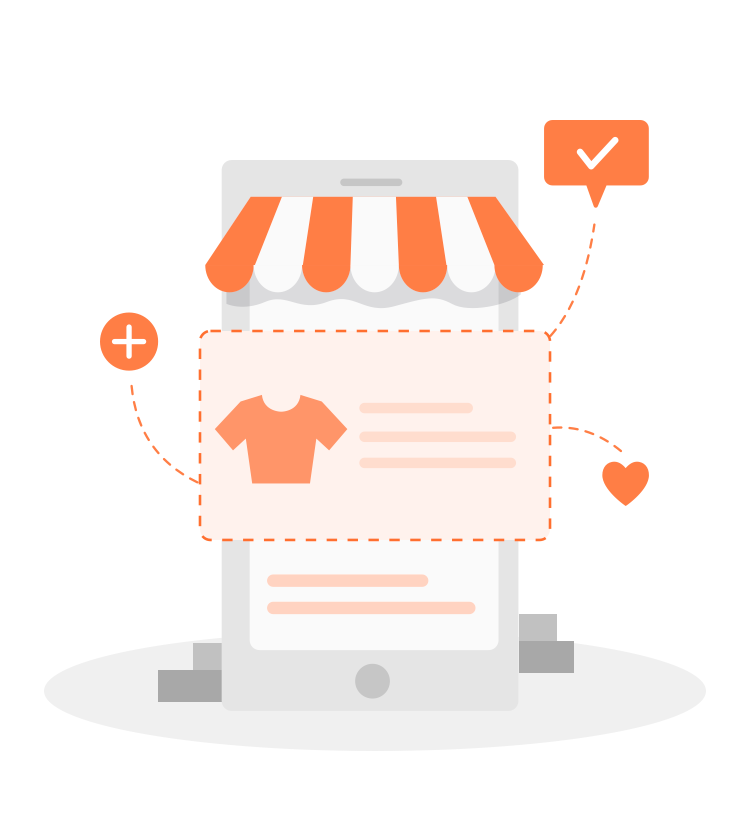
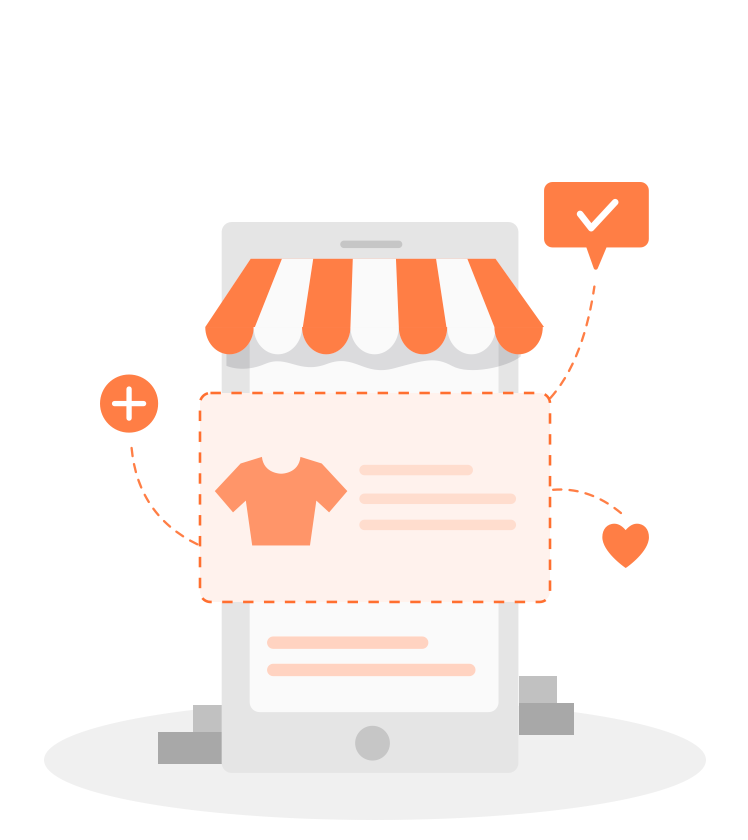
feat:替换引导图

diff --git a/lib/screen/module_main/guide.dart b/lib/screen/module_main/guide.dart
@@ -60,16 +60,17 @@ class _GuideScreenState extends State<GuideScreen> {
               alignment: Alignment.topCenter,
               margin: EdgeInsets.only(top: 430),
               builder: RoundRectSwiperPaginationBuilder(
-                  //点之间的间隔
-                  space: 5,
-                  // 没选中时的大小
-                  size: Size(30, 4),
-                  // 选中时的大小
-                  activeSize: Size(30, 4),
-                  // 没选中时的颜色
-                  color: Colors.white30,
-                  //选中时的颜色
-                  activeColor: Colors.white),
+                //点之间的间隔
+                space: 5,
+                // 没选中时的大小
+                size: Size(30, 4),
+                // 选中时的大小
+                activeSize: Size(30, 4),
+                // 没选中时的颜色
+                color: Colors.white30,
+                //选中时的颜色
+                activeColor: Colors.white,
+              ),
             ),
           ),
         ),
@@ -79,64 +80,63 @@ class _GuideScreenState extends State<GuideScreen> {
 
   Widget _createSwiperItem(
       int index, BuildContext context, SwiperController controllrer) {
-    return Container(
-      child: Column(
-        crossAxisAlignment: CrossAxisAlignment.center,
-        // mainAxisAlignment: MainAxisAlignment.center,
-        children: [
-          Image(
-            image: _getCurImage(index),
-            height: 420,
-            fit: BoxFit.contain,
+    return Column(
+      crossAxisAlignment: CrossAxisAlignment.center,
+      mainAxisSize: MainAxisSize.min,
+      // mainAxisAlignment: MainAxisAlignment.center,
+      children: [
+        Image(
+          image: _getCurImage(index),
+          height: 420,
+          fit: BoxFit.contain,
+        ),
+        SizedBox(
+          height: 60,
+        ),
+        Padding(
+          padding: const EdgeInsets.symmetric(
+            horizontal: 8,
           ),
-          SizedBox(
-            height: 60,
+          child: Text(
+            guideDesc[index],
+            textAlign: TextAlign.center,
+            style: TextStyle(
+                color: Colours.white,
+                fontSize: 25,
+                fontWeight: FontWeight.w800,
+                height: 1.2),
           ),
-          Padding(
-            padding: const EdgeInsets.symmetric(
-              horizontal: 8,
-            ),
-            child: Text(
-              guideDesc[index],
-              textAlign: TextAlign.center,
-              style: TextStyle(
-                  color: Colours.white,
-                  fontSize: 25,
-                  fontWeight: FontWeight.w800,
-                  height: 1.2),
-            ),
-          ),
-          Visibility(
-            maintainState: true,
-            maintainAnimation: true,
-            maintainSize: true,
-            visible: _showGetStarted,
-            child: GestureDetector(
-              onTap: () {
-                IdolRoute.startIndex(context);
-              },
-              child: Container(
-                margin: EdgeInsets.only(top: 30),
-                decoration: BoxDecoration(
-                  color: Colours.color_white30,
-                  borderRadius: BorderRadius.all(
-                    Radius.circular(4),
-                  ),
+        ),
+        Visibility(
+          maintainState: true,
+          maintainAnimation: true,
+          maintainSize: true,
+          visible: _showGetStarted,
+          child: GestureDetector(
+            onTap: () {
+              IdolRoute.startIndex(context);
+            },
+            child: Container(
+              margin: EdgeInsets.only(top: 30),
+              decoration: BoxDecoration(
+                color: Colours.color_white30,
+                borderRadius: BorderRadius.all(
+                  Radius.circular(4),
                 ),
-                padding:
-                    EdgeInsets.only(left: 30, top: 12, right: 30, bottom: 12),
-                child: Text(
-                  'GET STARTED!',
-                  style: TextStyle(
-                    color: Colors.white,
-                    fontWeight: FontWeight.w500,
-                  ),
+              ),
+              padding:
+                  EdgeInsets.only(left: 30, top: 12, right: 30, bottom: 12),
+              child: Text(
+                'GET STARTED!',
+                style: TextStyle(
+                  color: Colors.white,
+                  fontWeight: FontWeight.w500,
                 ),
               ),
             ),
           ),
-        ],
-      ),
+        ),
+      ],
     );
   }
 }
